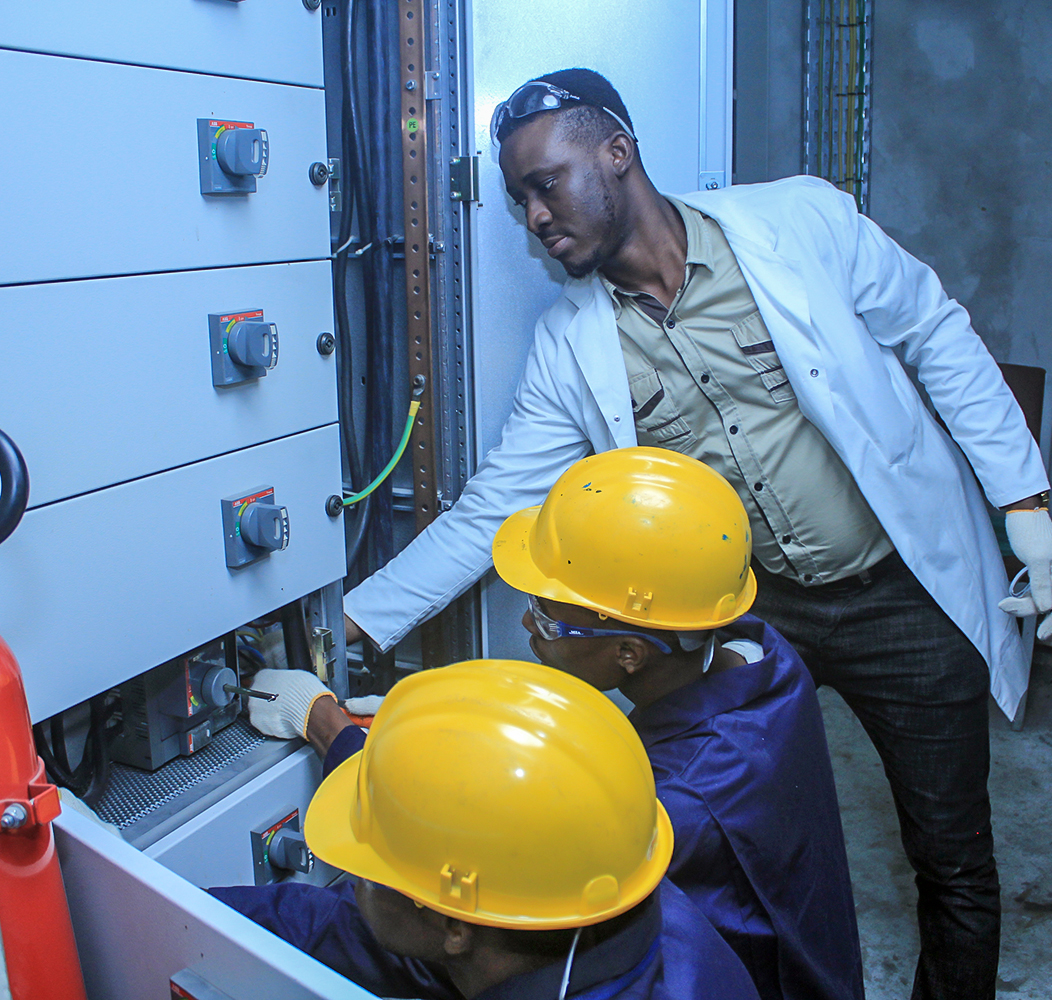
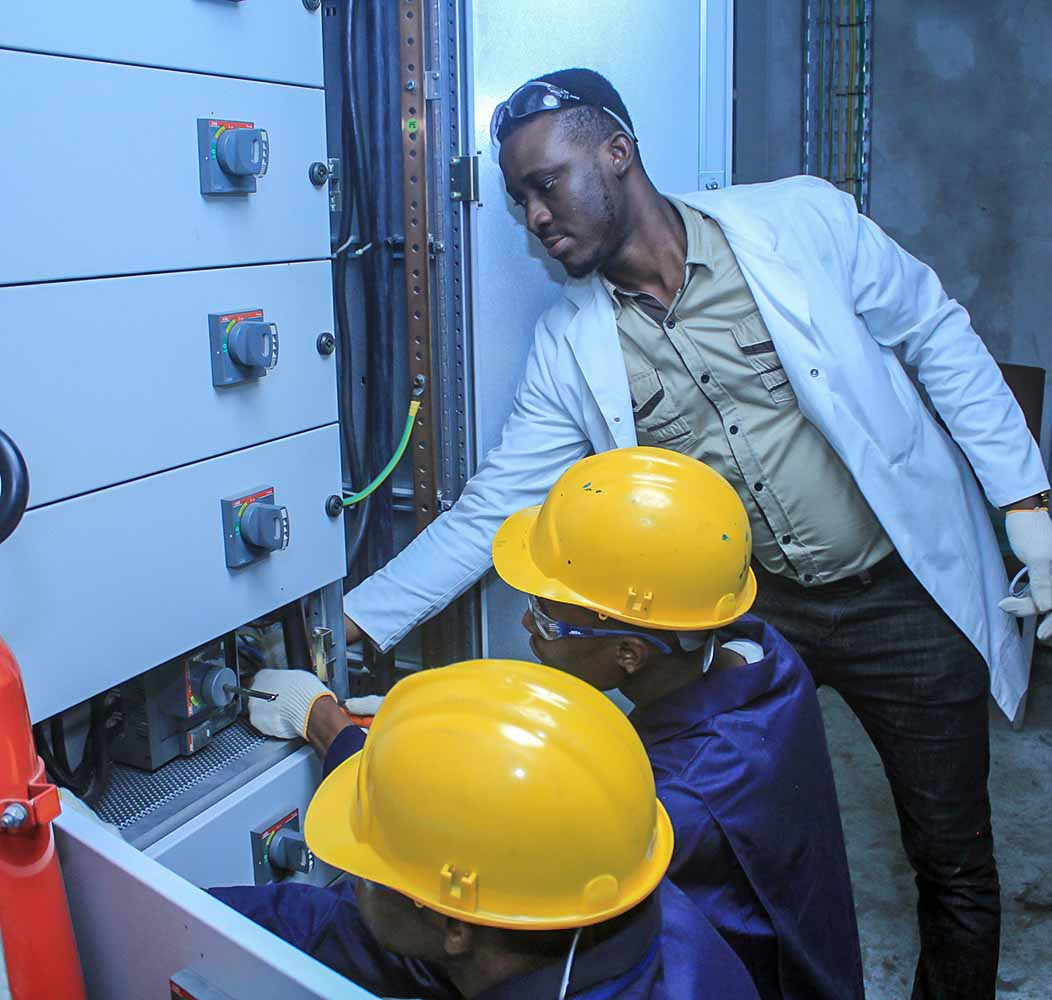
Reduce images

diff --git a/about.html b/about.html
@@ -186,7 +186,7 @@
                             7. To forge strategic partnerships with various stakeholders for sustainable business
                             development.</p>
                     </div>
-                    <div class="card__image" style="background-image: url('./assets/images/slides/mechanicalpose.jpg')">
+                    <div class="card__image" style="background-image: url('./assets/images/slides/course-card-2.jpg')">
                     </div>
                 </div>
 

diff --git a/assets/styles/scss/about.scss b/assets/styles/scss/about.scss
@@ -226,6 +226,8 @@ main {
     main{
         
         .strategy{
+            padding-top:3em;
+
             &__container{
                 width:80%;
 
